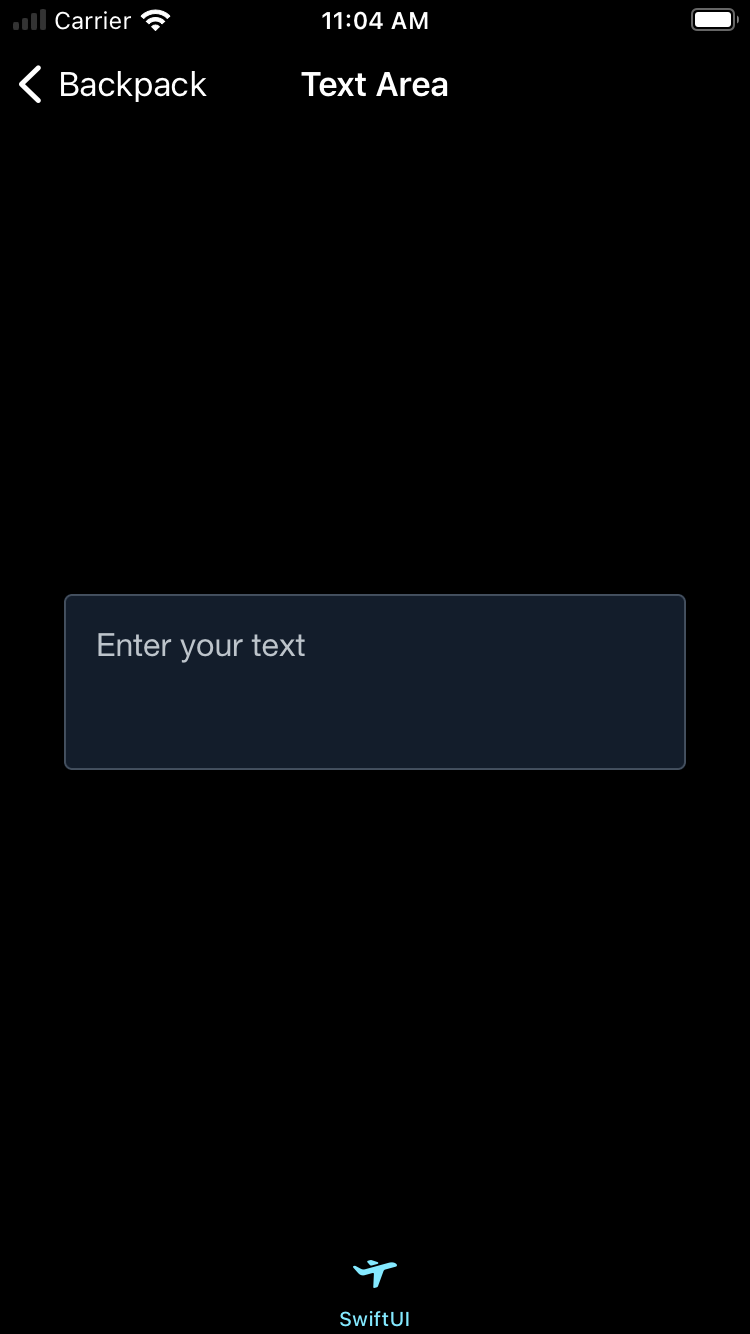
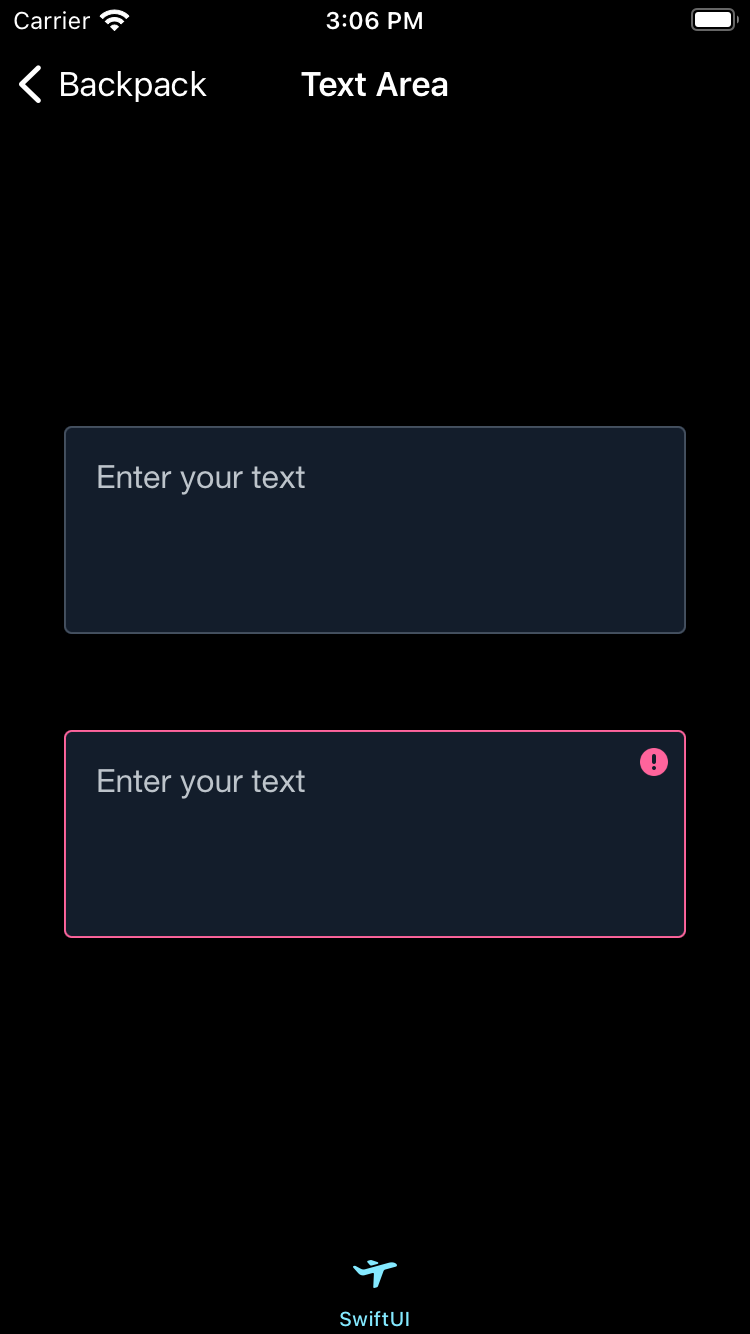
Updated the screenshots and readme

Changed region(s): [[0.0613, 0.3073, 0.92, 0.7069], [0.0, 0.0, 0.2147, 0.0307], [0.4293, 0.0, 0.5827, 0.0307]]

diff --git a/Backpack-SwiftUI/TextArea/readme.md b/Backpack-SwiftUI/TextArea/readme.md
@@ -34,3 +34,10 @@ struct BPKTextAreaExampleView: View {
     }
 }
 ```
+
+### Changing the State
+    
+```swift
+  BPKTextArea(text: $text)
+    .inputState(.error)
+```
